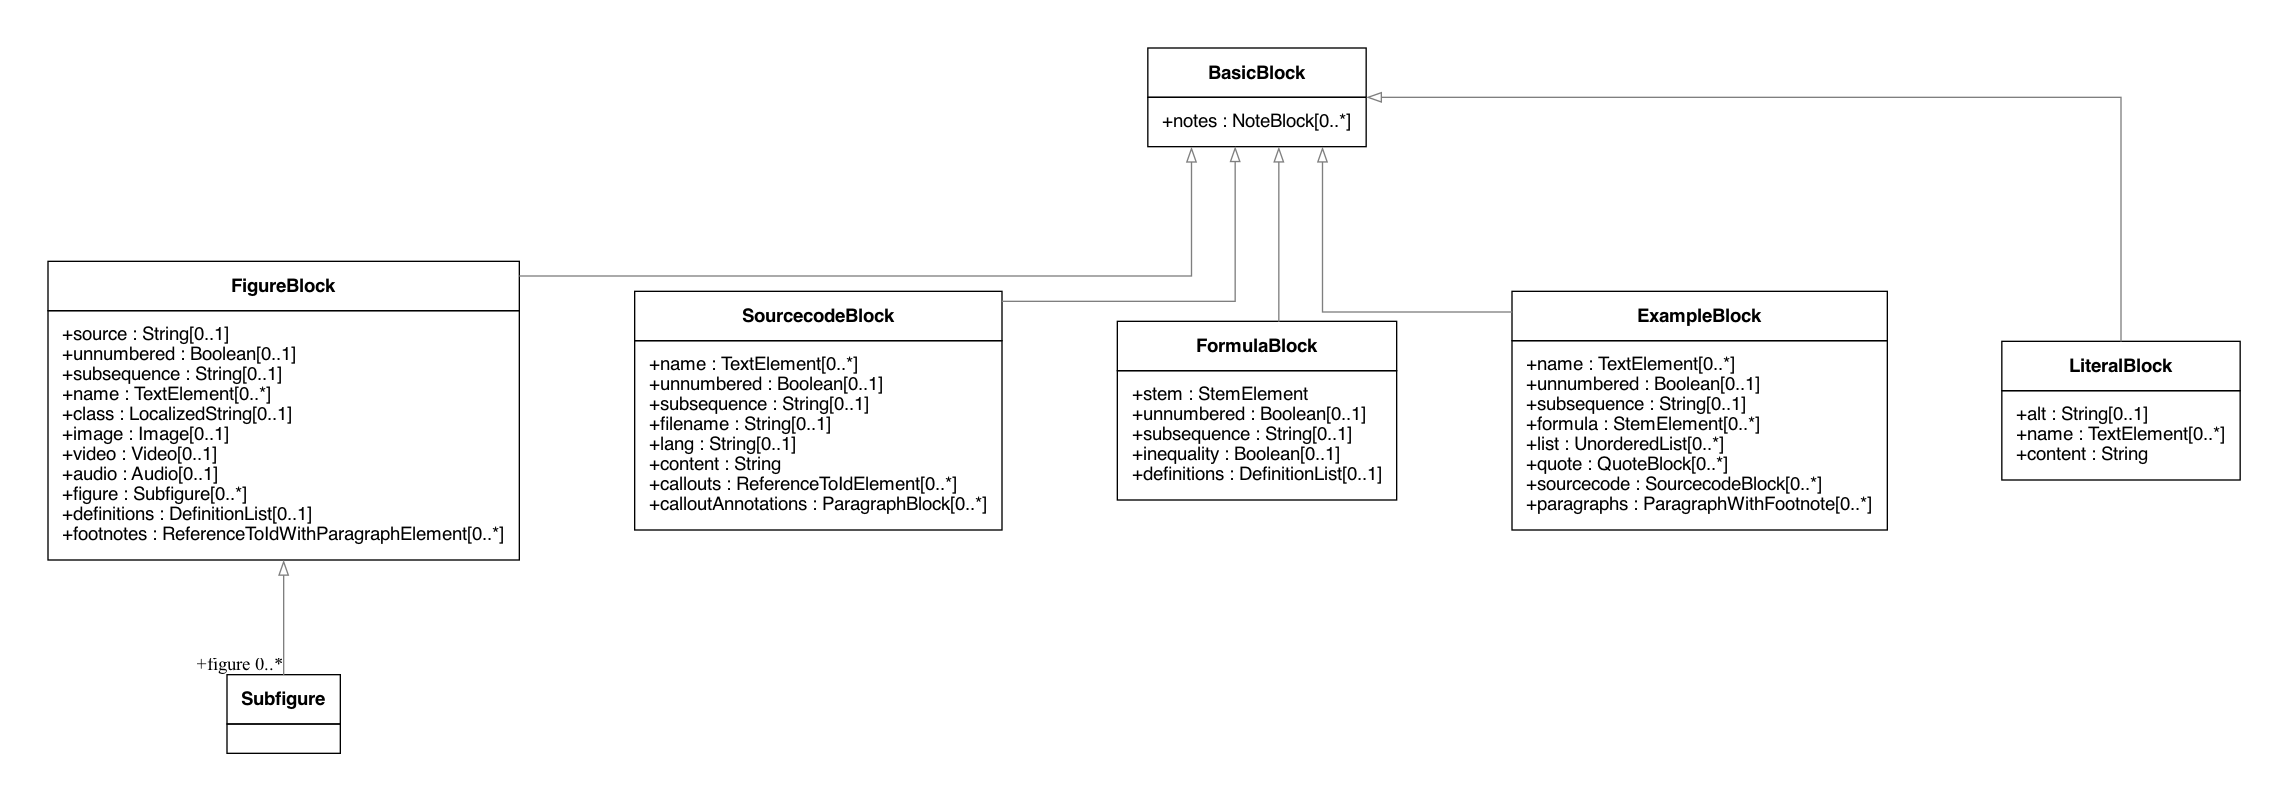
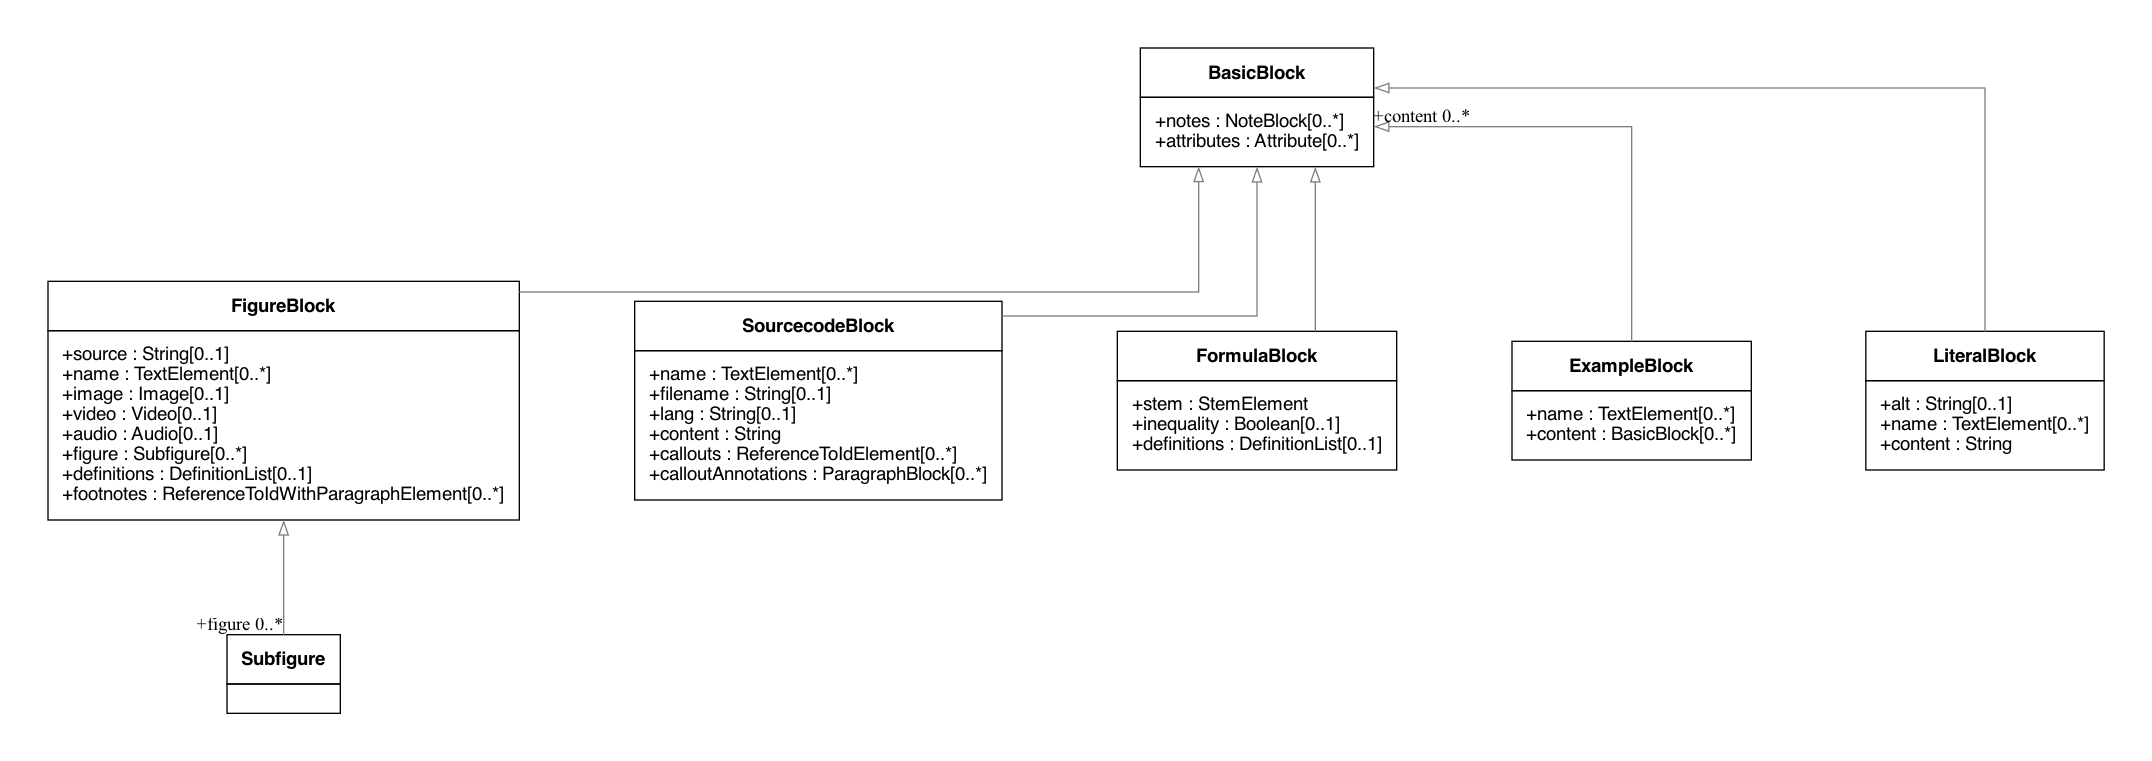
Apply the construct doctrine: register, relaxation, composition
Basicdoc provides constructs that markups specialize as types - no
per-format classes. Concretely:

- Attribute register: new Attribute {key, value*, scheme?} construct
  attached to BasicDocument, BasicSection, BasicBlock, BasicElement.
  Well-known keys: id, class, lang, script, unnumbered, subsequence,
  format. Drops the ad-hoc class slots (typed two different ways) and
  the unnumbered/subsequence pairs hand-copied across five blocks
  (Classification, the proto-register stranded in amend, dissolves into
  Attribute).
- Relaxed content models: ListItem, ParagraphsBlock (admonition/quote),
  Definition, ParagraphTableCell, ExampleBlock hold BasicBlock*;
  RNC LiBody/AdmonitionBody/QuoteBody/dd/TdBody/ExampleBodyContent and
  thead/tfoot (multiple rows) follow.
- Composition: a document is a block - NewContentBlock carries blocks,
  sections, and documents; AmendBlock.newContent now composes through
  it instead of silently dropping sections.
- ReferenceToVariable: references resolving against the register -
  home for {attr} / |substitution| / template variables.
- Serialization profiles are RNC-only: BasicBlockNoNotes (orphan class
  for a -no-id profile) deleted.
- Value semantics are data_types: ImageSizeType (was a flag-class with
  PascalCase attrs) and MediaType (was a string wrapper class).
- identifier now optional [0..1], matching RNC and the spec's intent.
- lint: attribute names must start lowercase (would have caught
  IsAuto).

diff --git a/CLAUDE.md b/CLAUDE.md
@@ -46,6 +46,18 @@ The `models/` tree is isomorphic to the spec's ontology (CC/ISO 36010, "Lightwei
 
 Basicdoc defines only the **basis**: `BibData`, its extension hook `ext: BibDataExtensionType`, and the single-valued `DocumentType`. Relaton and downstream models extend and implement the full bibliographic semantics. Never flesh out Relaton types here: `models/bibdata/relaton/*.lml` are boundary stubs (`class X <<Relaton>>` with a definition marking the boundary) so diagrams can reference Relaton types without importing Relaton's model graph.
 
+## Construct doctrine (cannot be violated)
+
+Basicdoc provides **constructs**; markup languages **specialize them as types**. Never add a per-format class where a type/specialization covers it (Note/Warning/Caution are `Admonition` + `AdmonitionType`, not classes).
+
+- **Attribute register**: `Attribute {key, value*, scheme?}` is an open register attachable to any construct (document, section, block, inline element). Formats bind their own attribute types as register entries — basicdoc never enumerates them. Well-known keys: `id`, `class`, `lang`, `script`, `unnumbered`, `subsequence`, `format`. Do not add ad-hoc per-class slots for register material.
+- **Relaxed content models**: containers (list items, multi-paragraph blocks, definition-list definitions, table cells, examples) hold `BasicBlock*`, not paragraph-only. Do not re-narrow them.
+- **Composition**: a document **is** a block — `NewContentBlock` carries blocks, sections, and documents as child content; any relaxed container may hold a document.
+- **Variables**: `ReferenceToVariable` resolves against the register — the model home for `{attr}`, `|substitution|`, template variables.
+- **Raw/passthrough is non-markup**: inline raw = `FormattedString` (its `format` attribute admits markup into strings); block raw = string-carrying constructs + a `format` register key. No escape-hatch class.
+- **Serialization profiles live in the RNC, not the model**: the `-no-id` grammar variants are profiles; the LML has no variant classes.
+- **Value semantics are `data_type`s**, not flag-classes (`ImageSizeType`, `MediaType`).
+
 ## Build commands
 
 Requires Ruby, Bundler, and Graphviz (`dot` on PATH).
